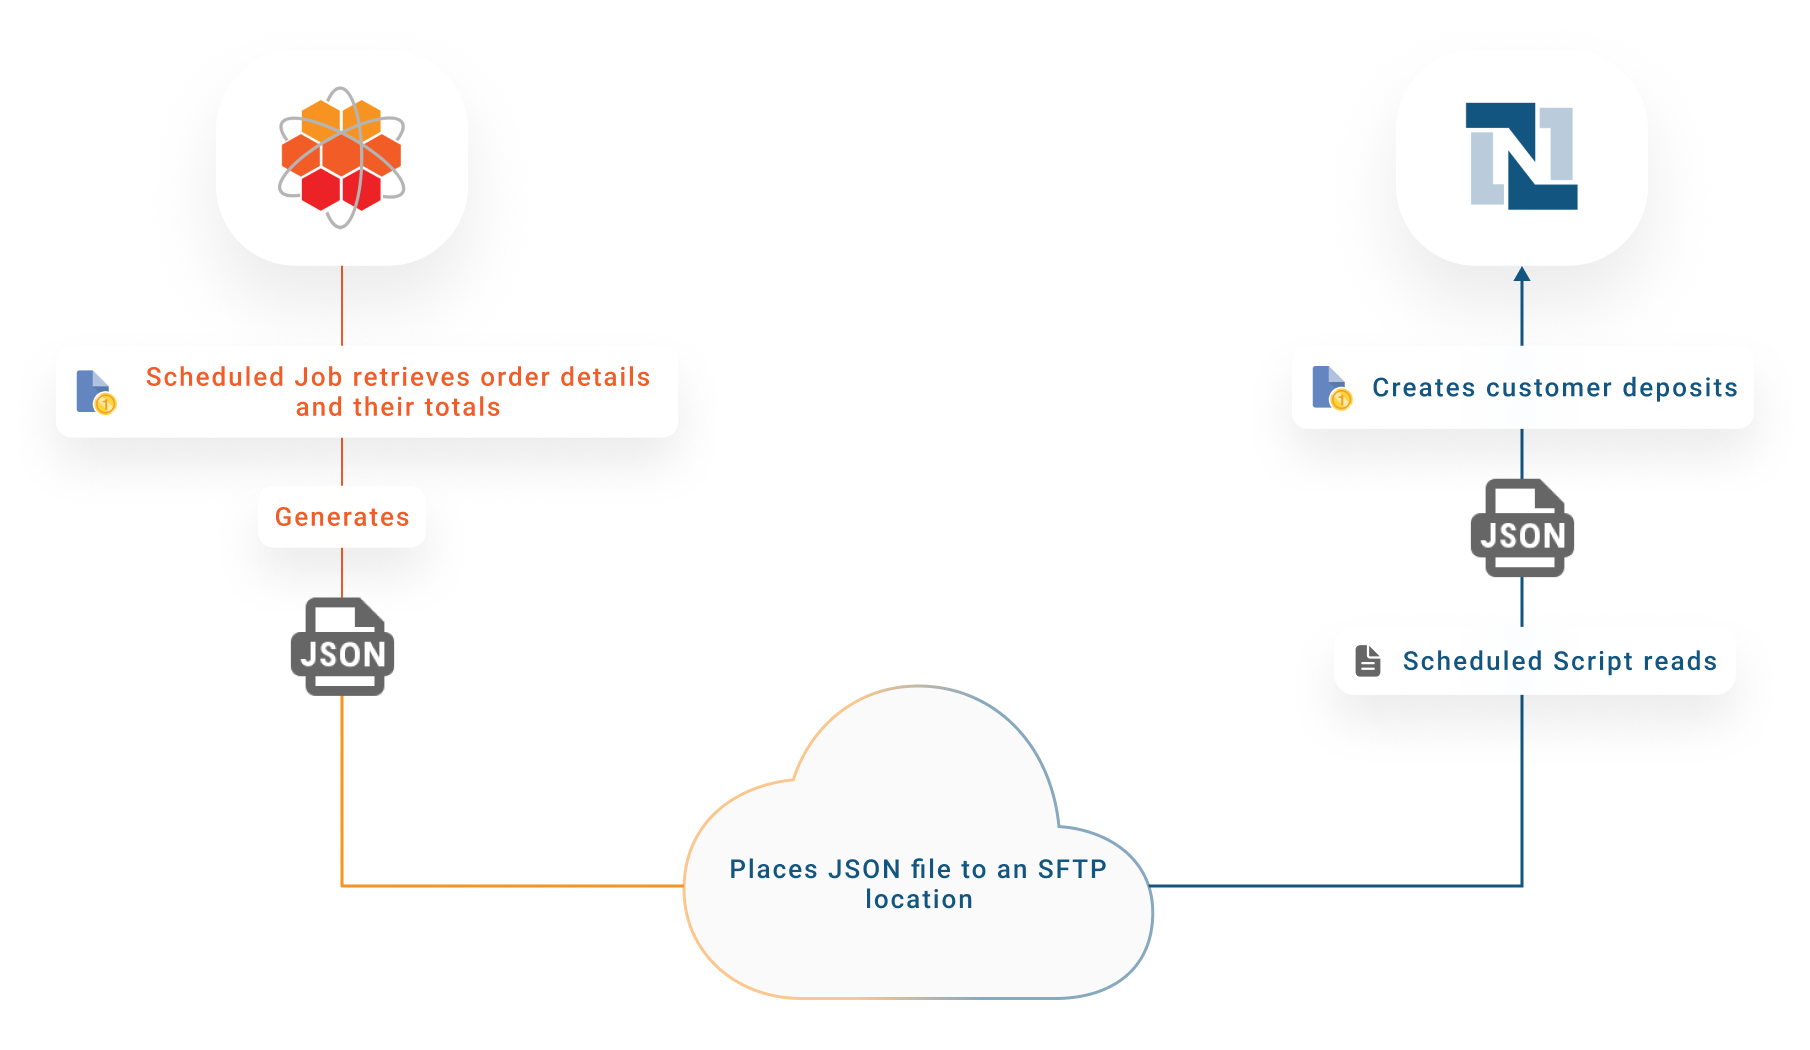
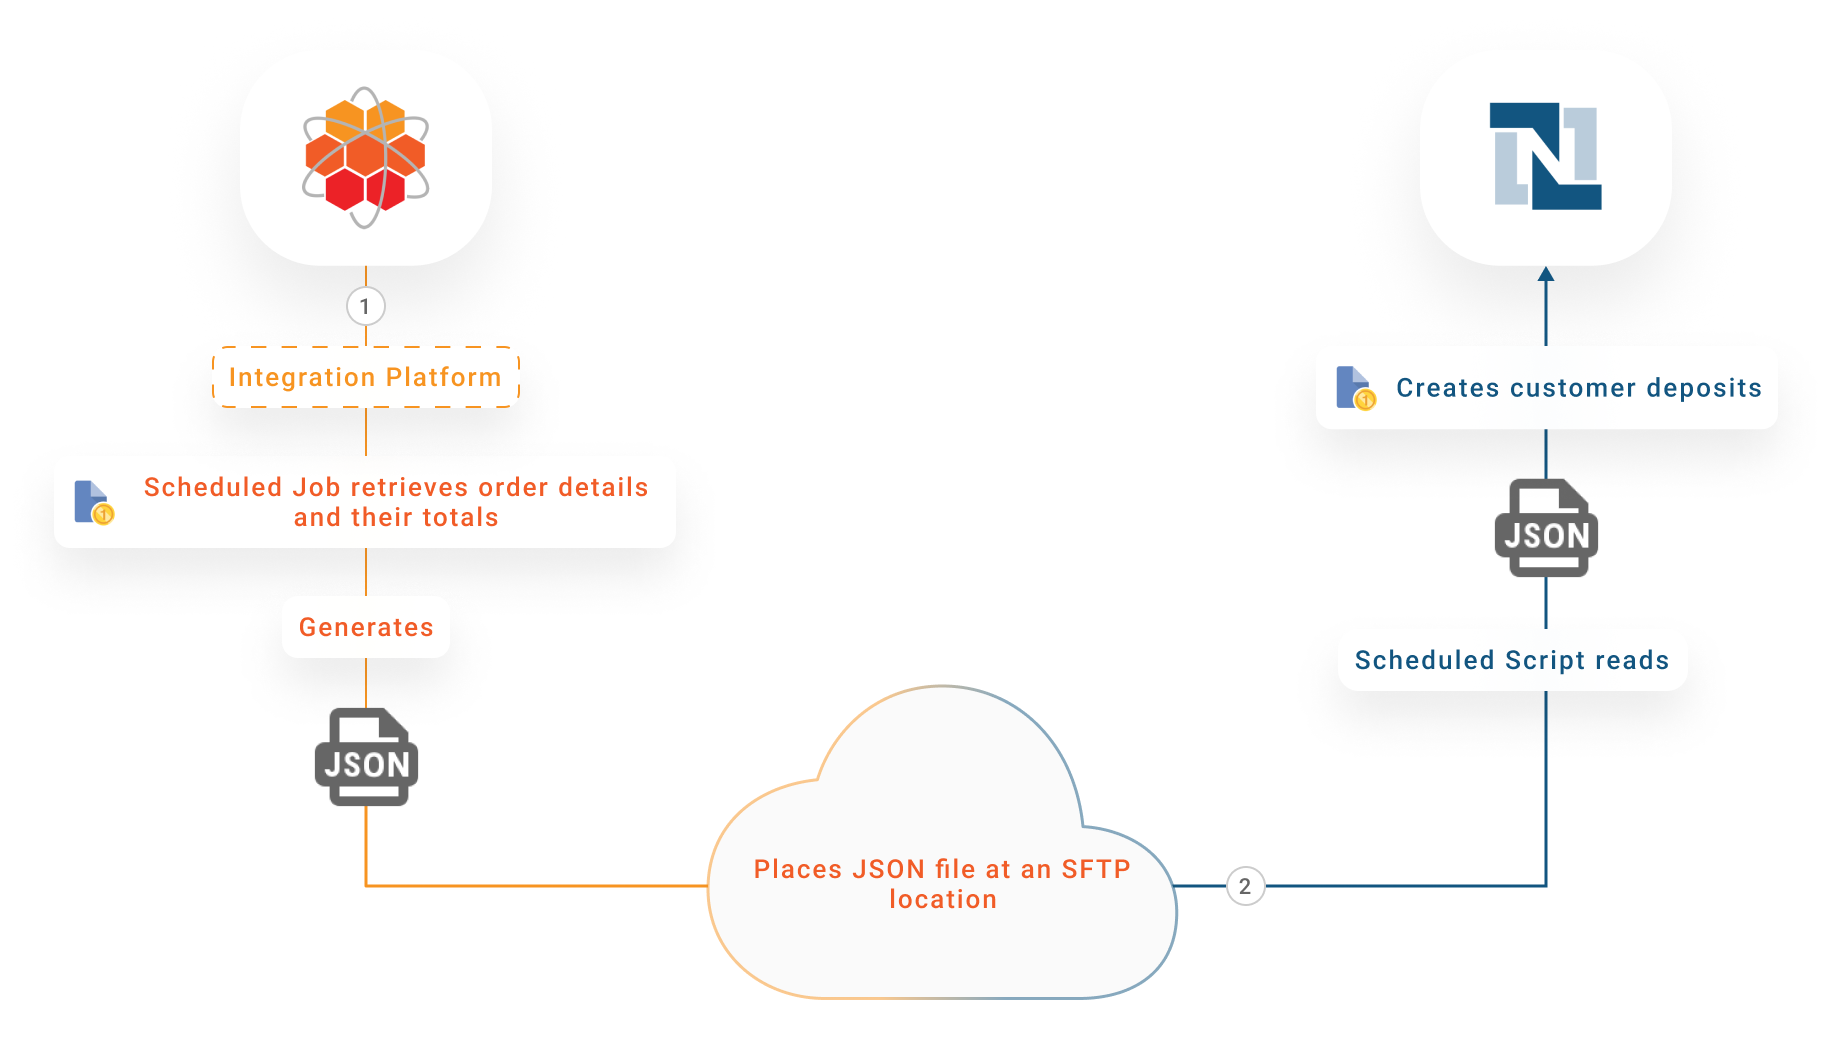
GITBOOK-86: No subject

diff --git a/netsuite/Flows/SalesOrder/OrderApproval.md b/netsuite/Flows/SalesOrder/OrderApproval.md
@@ -18,15 +18,55 @@ To successfully create a sales order in NetSuite, [it is a prerequisite to have 
 
 **Actions**
 
-#### Export customers from HotWax Commerce
+Export customers from HotWax Commerce
 
-A scheduled job in HotWax Commerce operates at defined intervals to generate a CSV file comprising customers who have not been synchronized to NetSuite. This job can be configured to run at regular intervals, typically set at an hourly frequency. Customers who haven't been synchronized within the last hour are included in this CSV file for synchronization with NetSuite.
+1. A scheduled job in HotWax Commerce operates at defined intervals to generate a CSV file comprising customers who have not been synchronized to NetSuite. This job can be configured to run at regular intervals, typically set at an hourly frequency. Customers who haven't been synchronized within the last hour are included in this CSV file for synchronization with NetSuite.
 
 {% hint style="info" %}
 **HotWax Internals**
 
 Identify new customers by checking the Person table for entries where the roleTypeId is 'CUSTOMER' and where the PartyIdentification record for identification type 'NETSUITE\_CUSTOMER\_ID' is not created.
 {% endhint %}
+
+**SFTP Location**
+
+```
+/home/{sftp-username}/netsuite/customer/export
+```
+
+#### Import customers into NetSuite
+
+2. A Scheduled Script in NetSuite is responsible for downloading the CSV file of customers not yet synchronized and utilizes the ImportTask function of the N/Task module. This script processes and creates customer records within NetSuite, ensuring that the necessary customer information is available in NetSuite for order creation.
+
+**SuiteScripts**
+
+Import new customers from SFTP
+
+```
+HC_SC_ImportCustomer
+```
+
+#### Export customers IDs from NetSuite and import into HotWax
+
+3. Once customers are created in NetSuite, a scheduled script exports recently created customers in a file at an SFTP location to be imported by HotWax Commerce.&#x20;
+4. After HotWax imports this file, the OMS now has confirmation of customer synchronization.
+
+**SuiteScripts**
+
+Export recently created customers to SFTP
+
+```
+HC_MR_ExportedCustomerCSV
+```
+
+**Job in HotWax Commerce**
+
+Import NetSuite Customer IDs from SFTP
+
+```
+Import Party Identification
+FTP Config: IMP_PARTY_IDENT
+```
 
 #### Here's how customer fields are mapped in HotWax Commerce and NetSuite
 
@@ -50,56 +90,17 @@ Identify new customers by checking the Person table for entries where the roleTy
 "\*" denotes fields that are required to be sent to NetSuite for the customer sync to work
 {% endhint %}
 
-**SFTP Location**
-
-```
-/home/{sftp-username}/netsuite/customer/export
-```
-
-#### Import customers into NetSuite
-
-A Scheduled Script in NetSuite is responsible for downloading the CSV file of customers not yet synchronized and utilizes the ImportTask function of the N/Task module. This script processes and creates customer records within NetSuite, ensuring that the necessary customer information is available in NetSuite for order creation.
-
-**SuiteScripts**
-
-Import new customers from SFTP
-
-```
-HC_SC_ImportCustomer
-```
-
-#### Export customers IDs from NetSuite and import into HotWax
-
-Once customers are created in NetSuite, a scheduled script exports recently created customers in a file at an SFTP location to be imported by HotWax Commerce. After HotWax imports this file, the OMS now has confirmation of customer synchronization.
-
-**SuiteScripts**
-
-Export recenlty created customers to SFTP
-
-```
-HC_MR_ExportedCustomerCSV
-```
-
-**Job in HotWax Commerce**
-
-Import NetSuite Customer IDs from SFTP
-
-```
-Import Party Identification
-FTP Config: IMP_PARTY_IDENT
-```
-
 * [x] Sync customers
 
 ## Synchronize Sales Order from HotWax Commerce to NetSuite
 
 Capturing orders in HotWax Commerce initiates the creation of orders in "created" status. In this step, created sales orders are pushed from HotWax Commerce to NetSuite for further processing.
 
+<figure><img src="../../.gitbook/assets/created orders.png" alt=""><figcaption><p>Orders in Created status pushed to NetSuite</p></figcaption></figure>
+
 #### Export new orders to NetSuite
 
-A job in HotWax Commerce Integration platform creates a CSV file of orders in "created" status that have not yet been sent to NetSuite. When creating this file HotWax Commerce also ensures that the customer already exists in NetSuite using the customer ID saved in the last step.
-
-<figure><img src="../../.gitbook/assets/order sync from hotwax to netsuite.png" alt=""><figcaption><p>Orders in Created status pushed to NetSuite</p></figcaption></figure>
+1. A job in HotWax Commerce Integration platform creates a CSV file of orders in "created" status that have not yet been sent to NetSuite. When creating this file HotWax Commerce also ensures that the customer already exists in NetSuite using the customer ID saved in the last step.
 
 The file contains details such as unit prices, order adjustments, and shipping costs, excluding direct tax amounts. HotWax Commerce omits the tax amount from the file and sends tax codes for the individual order items because NetSuite independently computes the taxes based on these codes and applies them accurately to each order item, ensuring precise tax calculations within NetSuite.
 
@@ -116,6 +117,28 @@ The price for products is not sent by HotWax when the order syncs to NetSuite. I
 #### Tax Codes
 
 For retailers that use Avatax, the Tax Code and Shipping Tax Code will always contain "AVATAX" when sent from HotWax. Avalara Tax calculation will automatically compute taxes on the order in NetSuite when the order is created.
+
+### Handling NetSuite file size limits
+
+We've added a limit to how many orders can be synced in one file to NetSuite to ensure the NetSuite file size limit is not breached. NetSuite has a limit of 25,000 rows in one CSV, so if your order volume in one sync duration exceeds this limit, we automatically paginate the file to ensure NetSuite does not reject the file. Another thing we kept in mind is that during pagination, one order should not be split into seperate files because this could lead to errors in the order import process in NetSuite. Assuming that most e-Commerce orders contain 10 or less items, we've set an upper limit of 1000 orders per file. This should keep the file size well below NetSuite's limit while also leaving buffer for orders with more line items.
+
+Though it may seem like this would significanlty slow down the order sync, this is not actually the case. All valid orders are still exported from HotWax Commerce at once and then paginated for NetSuite, this means all the order files are available for NetSuite to process and the speed at which they're processed is determined by the configuration of NetSuite used by the retailer. Higher configurations will have faster and more concurrent file process capabilites.
+
+**SFTP Locations**
+
+Export 'Created' orders with verified customers
+
+```
+/home/{sftp-username}/netsuite/salesorder/export
+```
+
+2. A scheduled SuiteScript in NetSuite reads the CSV file from the SFTP location and creates sales order records using the CSV Import function of the N/Task module.
+
+**SuiteScript**
+
+```
+HC_importSalesOrders
+```
 
 #### Here's how sales order fields are mapped in HotWax Commerce and NetSuite
 
@@ -150,28 +173,6 @@ To sync sales orders from HotWax Commerce to NetSuite, a required field is the "
 {% hint style="danger" %}
 "\*" denotes fields that are required to be sent to NetSuite for the sales order sync to work
 {% endhint %}
-
-### Handling NetSuite file size limits
-
-We've added a limit to how many orders can be synced in one file to NetSuite to ensure the NetSuite file size limit is not breached. NetSuite has a limit of 25,000 rows in one CSV, so if your order volume in one sync duration exceeds this limit, we automatically paginate the file to ensure NetSuite does not reject the file. Another thing we kept in mind is that during pagination, one order should not be split into seperate files because this could lead to errors in the order import process in NetSuite. Assuming that most e-Commerce orders contain 10 or less items, we've set an upper limit of 1000 orders per file. This should keep the file size well below NetSuite's limit while also leaving buffer for orders with more line items.
-
-Though it may seem like this would significanlty slow down the order sync, this is not actually the case. All valid orders are still exported from HotWax Commerce at once and then paginated for NetSuite, this means all the order files are available for NetSuite to process and the speed at which they're processed is determined by the configuration of NetSuite used by the retailer. Higher configurations will have faster and more concurrent file process capabilites.
-
-**SFTP Locations**
-
-Export 'Created' orders with verified customers
-
-```
-/home/{sftp-username}/netsuite/salesorder/export
-```
-
-A scheduled SuiteScript in NetSuite reads the CSV file from the SFTP location and creates sales order records using the CSV Import function of the N/Task module.
-
-**SuiteScript**
-
-```
-HC_importSalesOrders
-```
 
 ## Sync Sales Order Item Line IDs from NetSuite to HotWax Commerce
 
@@ -247,11 +248,11 @@ To ensure that only applicable customer deposits are created in NetSuite, orders
 
 #### Export Customer Deposit from HotWax Commerce
 
-HotWax Commerce runs a scheduled job that generates a JSON file with order details and their respective grand totals.
+1. HotWax Commerce runs a scheduled job that generates a JSON file with order details and their respective grand totals.
 
 **SFTP Locations**
 
-Export customer despot for orders with NetSuite order identification
+Export customer deposit for orders with NetSuite order identification
 
 ```
 /home/{sftp-username}/netsuite/salesorder/customerdeposit
@@ -259,7 +260,7 @@ Export customer despot for orders with NetSuite order identification
 
 #### Import Customer Deposit into NetSuite
 
-A SuiteScript in NetSuite creates customer deposit records in "undeposited" status based on the JSON file from the SFTP server. It employs the N/Record module for record creation.
+2. A SuiteScript in NetSuite creates customer deposit records in "undeposited" status based on the JSON file from the SFTP server. It employs the N/Record module for record creation.
 
 **SuiteScript**
 
